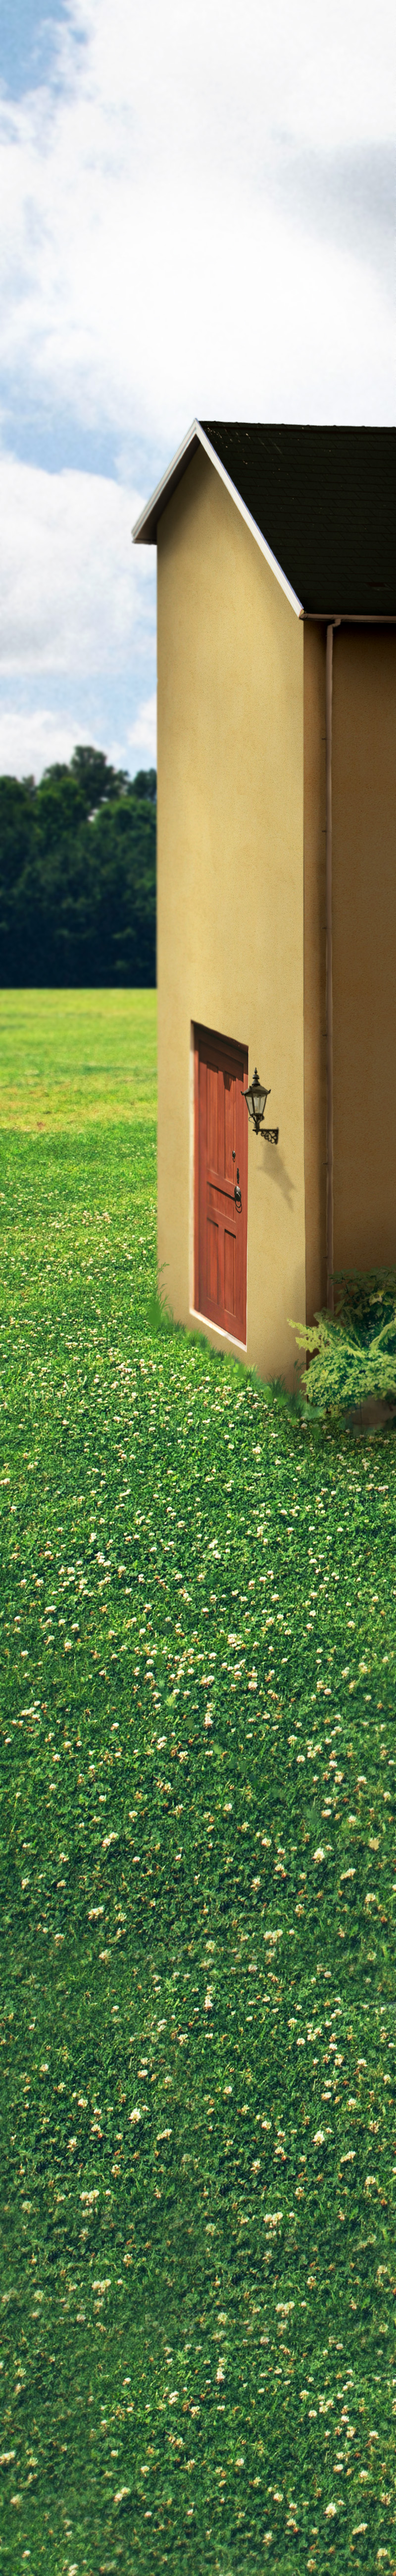
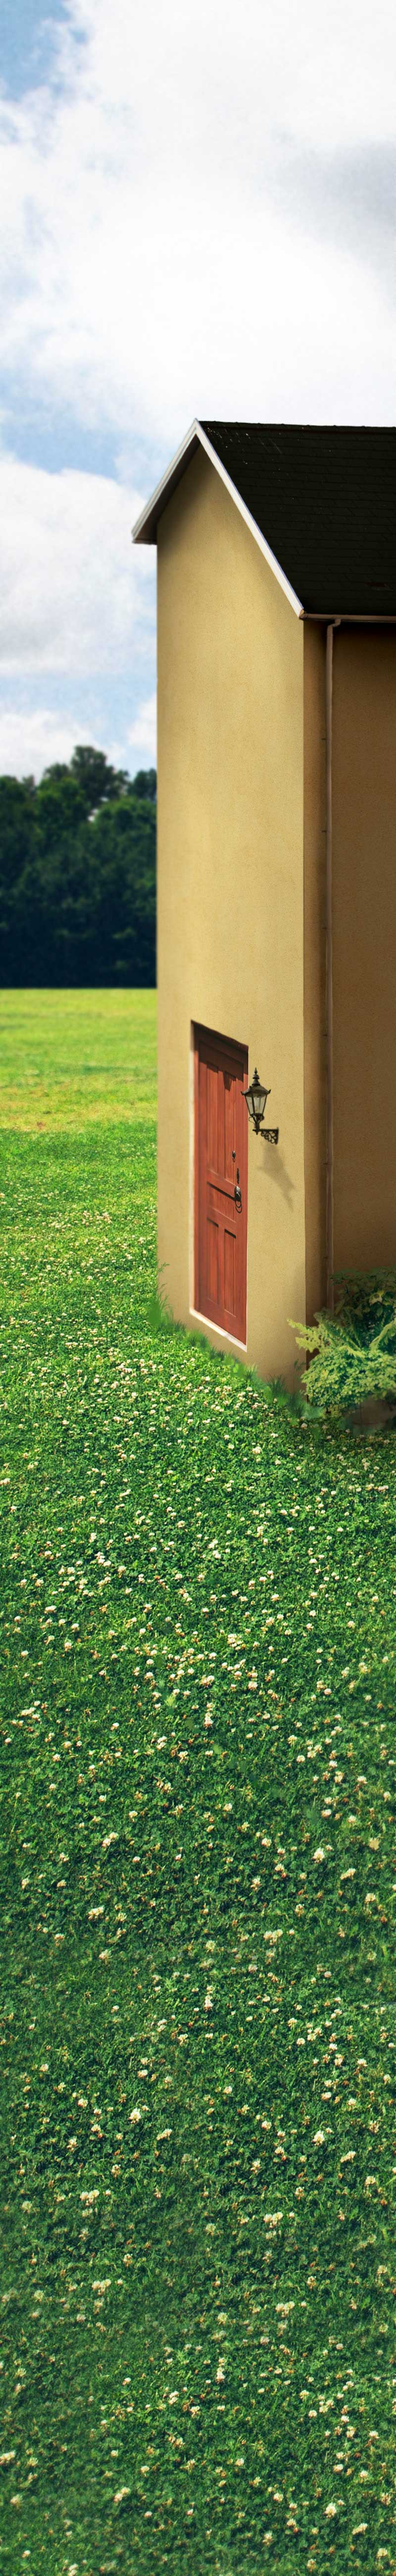
change image background website

diff --git a/src/views/Traps.vue b/src/views/Traps.vue
@@ -119,7 +119,7 @@ export default {
   height: 250px;
 }
 .pieges {
-  background-image: url("../assets/fond_website-compressed.jpg");
+  background-image: url("../assets/fond_website.jpg");
   background-repeat: no-repeat;
   background-size: 100%;
   text-align: center;
